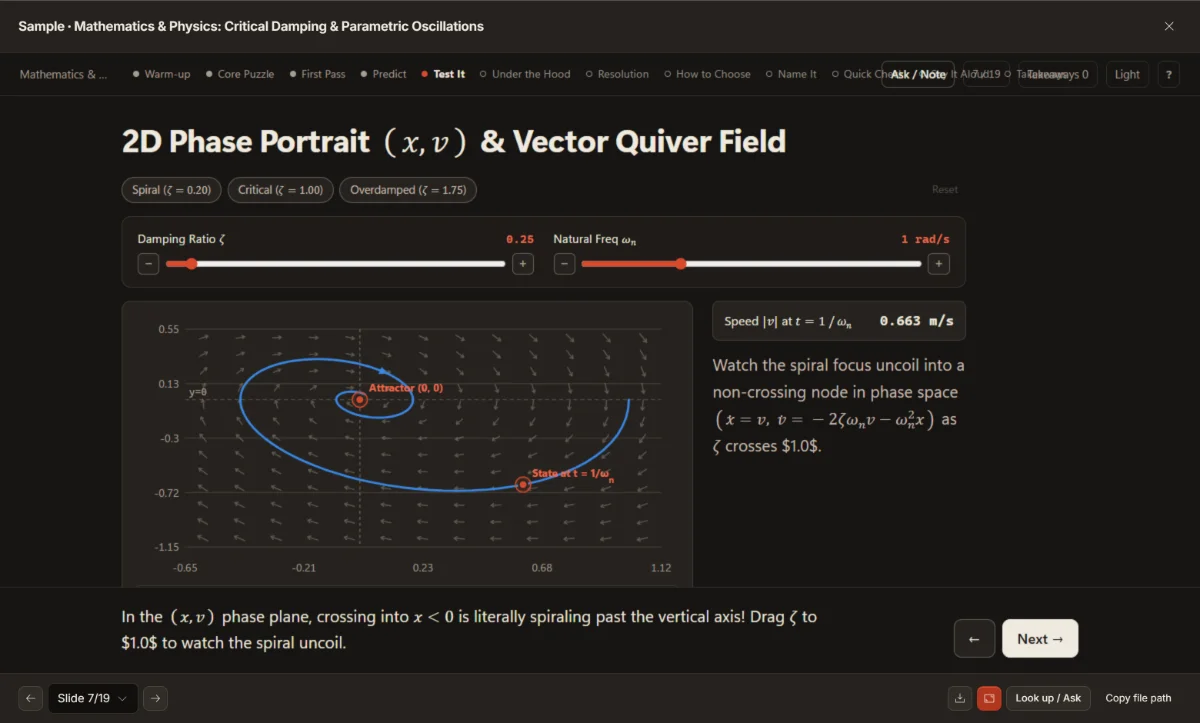
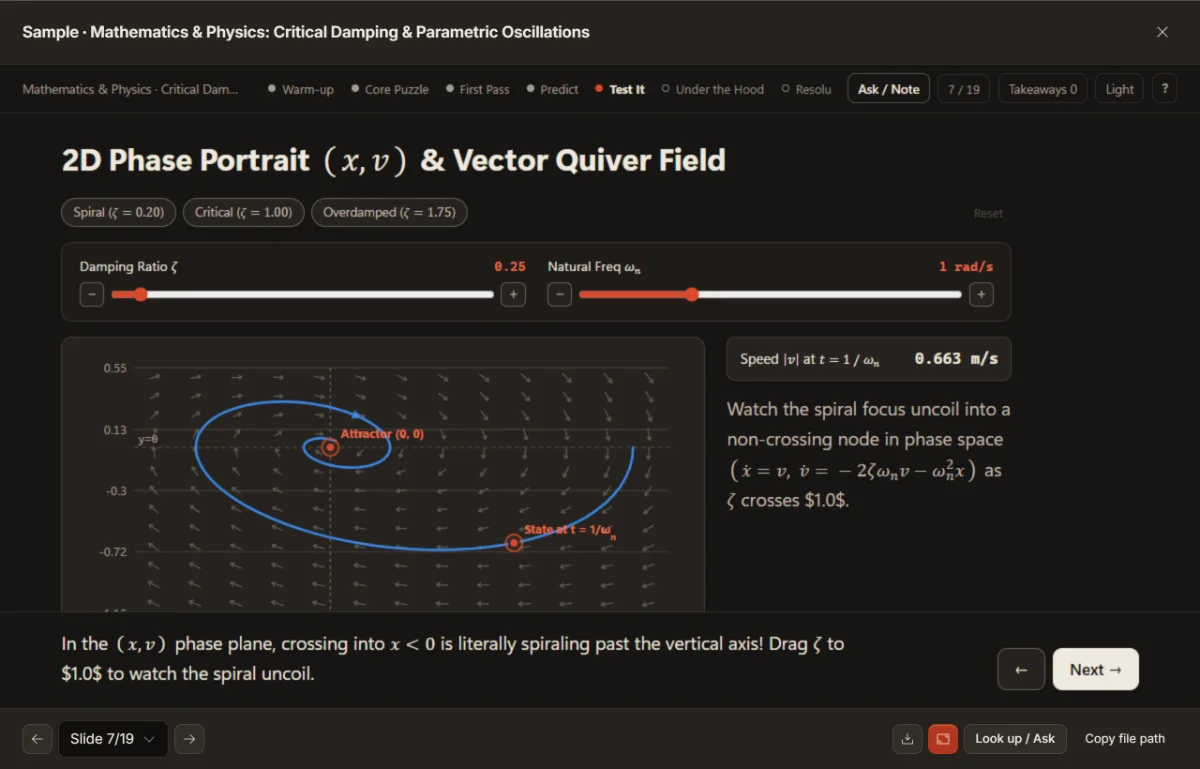
fix(companions): 修复伴学页 HTML 预览顶栏重叠、全屏宽度受限、暗色滚动条与图框溢出 (#1119)
- 修复 ui/diagram-frame.js 运行时注入样式与 lib/companion-template/template-styles.js 模板网格列宽：将 .top 改为 minmax(0, auto) minmax(0, 1fr) auto（空标题时两列）、限制 .beats 横向滚动且保持当前节点可见、为 .top__tools 加 flex-shrink: 0 与 white-space: nowrap，彻底解决本地与新建伴学页顶栏文字撞车。
- 同步适配 html[data-theme] color-scheme 与 .stage 细滚动条、收紧首屏标题上方冗余留白、为 .pic__board 改用居中自适应宽度防长词挤框。
- 为 CompanionViewer 全屏弹窗补充 .sh-comp-dialog 类并放宽至 min(1480px, 100%)、令 .sh-comp-viewer 撑满弹窗高度，同时保持 Archify 1 参调用与已有守卫测试不变；补充回归测试与重拍 README 截图。

diff --git a/lib/companion-template/template-styles.js b/lib/companion-template/template-styles.js
@@ -56,10 +56,13 @@ menclose[notation="downdiagonalstrike"], menclose.sh-bcancel { background: linea
 menclose[notation="updiagonalstrike downdiagonalstrike"], menclose.sh-xcancel { background: linear-gradient(to top left, transparent calc(50% - .8px), currentColor calc(50% - .8px), currentColor calc(50% + .8px), transparent calc(50% + .8px)), linear-gradient(to top right, transparent calc(50% - .8px), currentColor calc(50% - .8px), currentColor calc(50% + .8px), transparent calc(50% + .8px)); }
 menclose[notation="horizontalstrike"], menclose.sh-sout { text-decoration: line-through; }
 
-.top { display: grid; grid-template-columns: minmax(0, 1fr) auto minmax(0, 1fr); align-items: center; gap: 1rem; padding: .55rem 1.4rem; border-bottom: 1px solid var(--rule); }
-.top__title { font-size: .8rem; color: var(--muted); white-space: nowrap; overflow: hidden; text-overflow: ellipsis; }
-.top__tools { display: flex; justify-content: flex-end; align-items: center; gap: .6rem; font-size: .8rem; color: var(--muted); }
-.beats { display: flex; align-items: center; overflow-x: auto; scrollbar-width: none; }
+.top { display: grid; grid-template-columns: minmax(0, auto) minmax(0, 1fr) auto; align-items: center; gap: .75rem 1rem; padding: .55rem 1.4rem; border-bottom: 1px solid var(--rule); }
+.top:has(> .top__title:empty) { grid-template-columns: minmax(0, 1fr) auto; }
+.top__title { max-width: 14rem; font-size: .8rem; color: var(--muted); white-space: nowrap; overflow: hidden; text-overflow: ellipsis; }
+.top__title:empty { display: none; }
+.top__tools { display: flex; justify-content: flex-end; align-items: center; gap: .5rem; font-size: .8rem; color: var(--muted); flex-shrink: 0; white-space: nowrap; }
+.beats { display: flex; align-items: center; min-width: 0; max-width: 100%; overflow-x: auto; scrollbar-width: none; }
+.beats::-webkit-scrollbar { display: none; }
 .beat { display: flex; align-items: center; gap: .4rem; padding: .3rem .55rem; border: 0; background: none; border-radius: 8px; font-size: .78rem; color: var(--faint); cursor: pointer; white-space: nowrap; }
 .beat::before { content: ""; width: 6px; height: 6px; border-radius: 50%; border: 1.5px solid currentColor; }
 .beat:hover { color: var(--ink); }
@@ -72,7 +75,7 @@ menclose[notation="horizontalstrike"], menclose.sh-sout { text-decoration: line-
 .tool--ask { border-color: var(--rule-strong); color: var(--ink); font-weight: 600; }
 .tool--ask:hover { border-color: var(--accent); color: var(--accent-text); }
 
-.stage { overflow-x: hidden; overflow-y: auto; padding: 0 clamp(1rem, 4vw, 3.4rem) 2rem; }
+.stage { overflow-x: hidden; overflow-y: auto; padding: 0 clamp(1rem, 4vw, 3.4rem) 2rem; scrollbar-width: thin; scrollbar-color: var(--rule-strong) transparent; }
 .slide { width: 100%; max-width: 68rem; margin: 0 auto; padding-top: clamp(1.4rem, 4vh, 2.8rem); }
 .slide__title { font-family: var(--display); font-size: clamp(1.5rem, 2.6vw, 2.3rem); line-height: 1.22; font-weight: 680; letter-spacing: -.01em; margin: 0 0 1.3rem; text-wrap: balance; }
 .slide__blocks { display: grid; grid-template-columns: minmax(0, 1fr); gap: 1.25rem; }
@@ -81,7 +84,7 @@ menclose[notation="horizontalstrike"], menclose.sh-sout { text-decoration: line-
 .block { transition: opacity .28s var(--ease), transform .28s var(--ease); }
 .block.is-waiting { opacity: 0; transform: translateY(8px); pointer-events: none; }
 
-.slide--hook .slide__title { font-size: clamp(2.1rem, 4.6vw, 3.6rem); line-height: 1.14; font-weight: 720; letter-spacing: -.02em; max-width: 15em; margin-top: clamp(.5rem, 6vh, 3.8rem); margin-bottom: 1.4rem; }
+.slide--hook .slide__title { font-size: clamp(2.1rem, 4.6vw, 3.6rem); line-height: 1.14; font-weight: 720; letter-spacing: -.02em; max-width: 15em; margin-top: clamp(.25rem, 2.2vh, 1.5rem); margin-bottom: 1.4rem; }
 .hook__meta { display: grid; grid-template-columns: repeat(2, minmax(0, 1fr)); gap: 2.4rem; margin-top: 2.2rem; padding-top: 1.2rem; border-top: 1px solid var(--rule); max-width: 52rem; }
 .hook__meta h3 { font-size: .78rem; font-weight: 600; color: var(--muted); margin: 0 0 .5rem; }
 .hook__meta ul { margin: 0; padding: 0; list-style: none; font-size: .92rem; color: var(--ink-2); }
@@ -448,9 +451,9 @@ menclose[notation="horizontalstrike"], menclose.sh-sout { text-decoration: line-
 .pic__name { font-size: 13px; color: var(--muted); }
 .pic__tags { display: grid; justify-items: center; gap: 3px; }
 .pic__tags span { font-family: var(--mono); font-size: 12.5px; font-weight: 650; color: var(--ink); padding: 1px 8px; border-radius: 999px; border: 1px solid var(--rule-strong); background: var(--surface); white-space: nowrap; }
-.pic__board { position: absolute; left: 90px; top: 44px; width: 120px; height: 62px; display: grid; place-items: center; border: 1.5px solid var(--ink-2); border-radius: 8px; background: var(--raised); }
+.pic__board { position: absolute; left: 150px; top: 44px; transform: translateX(-50%); width: auto; min-width: 120px; max-width: 184px; min-height: 62px; height: auto; padding: 6px 12px; display: grid; place-items: center; border: 1.5px solid var(--ink-2); border-radius: 8px; background: var(--raised); }
 .pic__board.is-now { border-color: var(--accent); box-shadow: 0 0 0 1px var(--accent); }
-.pic__value { font-family: var(--mono); font-size: 24px; font-weight: 650; line-height: 1.1; text-align: center; padding: 0 4px; }
+.pic__value { font-family: var(--mono); font-size: clamp(16px, 1.2rem, 22px); font-weight: 650; line-height: 1.22; text-align: center; padding: 0 2px; overflow-wrap: break-word; }
 .pic__board.is-now .pic__value { color: var(--accent-text); }
 .pic__hand { position: absolute; top: 146px; width: 64px; height: 38px; display: grid; place-items: center; border: 1px solid var(--rule-strong); border-radius: 8px; background: var(--raised); font-family: var(--mono); font-size: 15px; }
 .pic__hand--a { left: 50px; }

diff --git a/ui/diagram-frame.js b/ui/diagram-frame.js
@@ -45,8 +45,27 @@ const UNIVERSAL_COMPANION_SHIM = `<script>(function(){try{`
   + `var nx=document.getElementById('next'),pv=document.getElementById('prev'),g=0,backed=false;while(nx&&curSlide().slide<tgt&&!nx.disabled&&g++<240){nx.click();}while(pv&&curSlide().slide>tgt&&!pv.disabled&&g++<240){pv.click();backed=true;}`
   + `if(backed&&pv){if(tgt>1){while(curSlide().slide===tgt&&!pv.disabled&&g++<40){pv.click();}while(nx&&curSlide().slide<tgt&&!nx.disabled&&g++<10){nx.click();}}else{while(!pv.disabled&&g++<40){pv.click();}}}}`
   + `});`
-  + `var cEl=document.getElementById('count');if(cEl){var timer=0;new MutationObserver(function(){clearTimeout(timer);timer=setTimeout(function(){var p=curSlide();post({kind:'progress',slide:p.slide,slideTotal:p.total,completed:p.slide>=p.total});},400);}).observe(cEl,{childList:true,characterData:true,subtree:true});}`
+  + `function syncBeat(){var nb=document.querySelector('#beats .beat.is-now');if(nb&&nb.scrollIntoView){try{nb.scrollIntoView({block:'nearest',inline:'nearest'});}catch(e){}}}`
+  + `syncBeat();`
+  + `var cEl=document.getElementById('count');if(cEl){var timer=0;new MutationObserver(function(){syncBeat();clearTimeout(timer);timer=setTimeout(function(){var p=curSlide();post({kind:'progress',slide:p.slide,slideTotal:p.total,completed:p.slide>=p.total});},400);}).observe(cEl,{childList:true,characterData:true,subtree:true});}`
   + `});}catch(e){}})();</script>`;
+
+const COMPANION_FRAME_FIX = `<style id="sh-companion-frame-fix">`
+  + `html[data-theme="dark"]{color-scheme:dark}`
+  + `html[data-theme="light"]{color-scheme:light}`
+  + `html body .top{grid-template-columns:minmax(0,auto) minmax(0,1fr) auto;gap:.75rem 1rem}`
+  + `html body .top:has(>.top__title:empty){grid-template-columns:minmax(0,1fr) auto}`
+  + `html body .top__title{max-width:14rem}`
+  + `html body .top__title:empty{display:none}`
+  + `html body .beats{min-width:0;max-width:100%;overflow-x:auto;scrollbar-width:none}`
+  + `html body .beats::-webkit-scrollbar{display:none}`
+  + `html body .top__tools{flex-shrink:0;white-space:nowrap;gap:.5rem}`
+  + `html body .stage{scrollbar-width:thin;scrollbar-color:var(--rule-strong,rgba(160,150,138,.36)) transparent}`
+  + `html body .slide--hook .slide__title{margin-top:clamp(.25rem,2.2vh,1.5rem)}`
+  + `html body .pic__board{left:150px;transform:translateX(-50%);width:auto;min-width:120px;max-width:184px;min-height:62px;height:auto;padding:6px 12px}`
+  + `html body .pic__value{font-size:clamp(16px,1.2rem,22px);line-height:1.22;overflow-wrap:break-word}`
+  + `@media (max-width:900px){html body .top{grid-template-columns:minmax(0,1fr) auto}}`
+  + `</style>`;
 
 function safeBootJson(value) {
   return JSON.stringify(value).replace(/<\//g, '<\\/').replace(/<!--/g, '<\\!--');
@@ -77,7 +96,7 @@ export function framedDocument(html, companion) {
       askLabel: typeof companion.askLabel === 'string' && companion.askLabel ? companion.askLabel : '+ Ask / Note',
       selectionLabel: typeof companion.selectionLabel === 'string' && companion.selectionLabel ? companion.selectionLabel : 'Ask about selection',
     })}</script>`;
-    headInsert = GUARD + bootTag + UNIVERSAL_COMPANION_SHIM;
+    headInsert = GUARD + COMPANION_FRAME_FIX + bootTag + UNIVERSAL_COMPANION_SHIM;
   }
   for (const opening of [/<head(?:\s[^>]*)?>/i, /<html(?:\s[^>]*)?>/i, /^\s*(?:)?<!doctype[^>]*>/i]) {
     const found = opening.exec(text);

diff --git a/ui/components/components.css b/ui/components/components.css
@@ -1060,6 +1060,8 @@
     .sh-dialog--full.source-preview .sh-dialog__body { display: flex; flex-direction: column; padding: 0; overflow: hidden; scrollbar-gutter: auto; }
     .sh-dialog--full.source-preview .sh-dialog__content { display: flex; flex: 1 1 auto; flex-direction: column; width: 100%; max-width: none; min-height: 0; margin-inline: 0; }
     .sh-dialog--full.source-preview .sh-dialog__content > :not(.study-document-viewer) { flex: none; margin: var(--space-2) var(--space-5); }
+    .sh-dialog--full.sh-comp-dialog .sh-dialog__body { display: flex; flex-direction: column; padding: var(--space-3) var(--space-4); overflow: hidden; scrollbar-gutter: auto; }
+    .sh-dialog--full.sh-comp-dialog .sh-dialog__content { display: flex; flex: 1 1 auto; flex-direction: column; width: 100%; max-width: min(1480px, 100%); min-height: 0; margin-inline: auto; }
     .sh-dialog--full.sh-comp-dialog--expanded .sh-dialog__description { display: none; }
     .sh-dialog--full.sh-comp-dialog--expanded .sh-dialog__body { display: flex; flex-direction: column; padding: 0; overflow: hidden; scrollbar-gutter: auto; }
     .sh-dialog--full.sh-comp-dialog--expanded .sh-dialog__content { display: flex; flex: 1 1 auto; flex-direction: column; width: 100%; max-width: none; min-height: 0; margin-inline: 0; }

diff --git a/ui/companions/CompanionViewer.jsx b/ui/companions/CompanionViewer.jsx
@@ -566,7 +566,7 @@ export default function CompanionViewer({ modal, onClose }) {
   return (
     <Dialog
       size="full"
-      className={expanded ? 'sh-comp-dialog--expanded' : undefined}
+      className={expanded ? 'sh-comp-dialog sh-comp-dialog--expanded' : 'sh-comp-dialog'}
       title={state.companion?.title || modal?.title || ui('交互伴学页')}
       description={state.companion?.grounded === false
         ? ui('AI 推演伴学页（隔离沙箱运行，未绑定原讲义）')

diff --git a/ui/companions/companions.css b/ui/companions/companions.css
@@ -5,8 +5,9 @@
     .sh-comp-viewer {
       display: grid;
       grid-template-columns: minmax(0, 1fr);
-      height: min(82vh, 56rem);
-      min-height: 28rem;
+      flex: 1 1 auto;
+      height: 100%;
+      min-height: min(28rem, 100%);
       gap: 0;
       border: 1px solid var(--line);
       border-radius: var(--radius);

diff --git a/changes/unreleased/companion-viewer-html-layout.en.md b/changes/unreleased/companion-viewer-html-layout.en.md
@@ -1,0 +1,1 @@
+- **Fixed Interactive Companion preview header collisions, narrow fullscreen stage sizing, dark-mode scrollbar glare, and schematic board label clipping.** Both existing local HTML lessons and newly generated Interactive Companions now scroll their beat navigation cleanly without overlapping top-right tools, use up to 1480 px in fullscreen preview, apply native dark scrollbars, and size diagram labels to fit multi-word text cleanly. Not verified: live Electron window rendering on Windows DSH desktop.

diff --git a/changes/unreleased/companion-viewer-html-layout.zh-CN.md b/changes/unreleased/companion-viewer-html-layout.zh-CN.md
@@ -1,0 +1,1 @@
+- **修复了交互伴学页 HTML 预览的顶栏文字重叠、全屏宽度受限、暗色滚动条刺眼及示意图方框文字挤压问题。** 无论是本地挂载的历史伴学 HTML 文件还是新生成的交互伴学页，顶栏章节进度与右侧工具按钮都不再互相压字，预览舞台充分铺展并适配暗色主题细滚动条与中文长标题方框。未验证：Windows 桌面版 DSH 客户端实机渲染效果。
